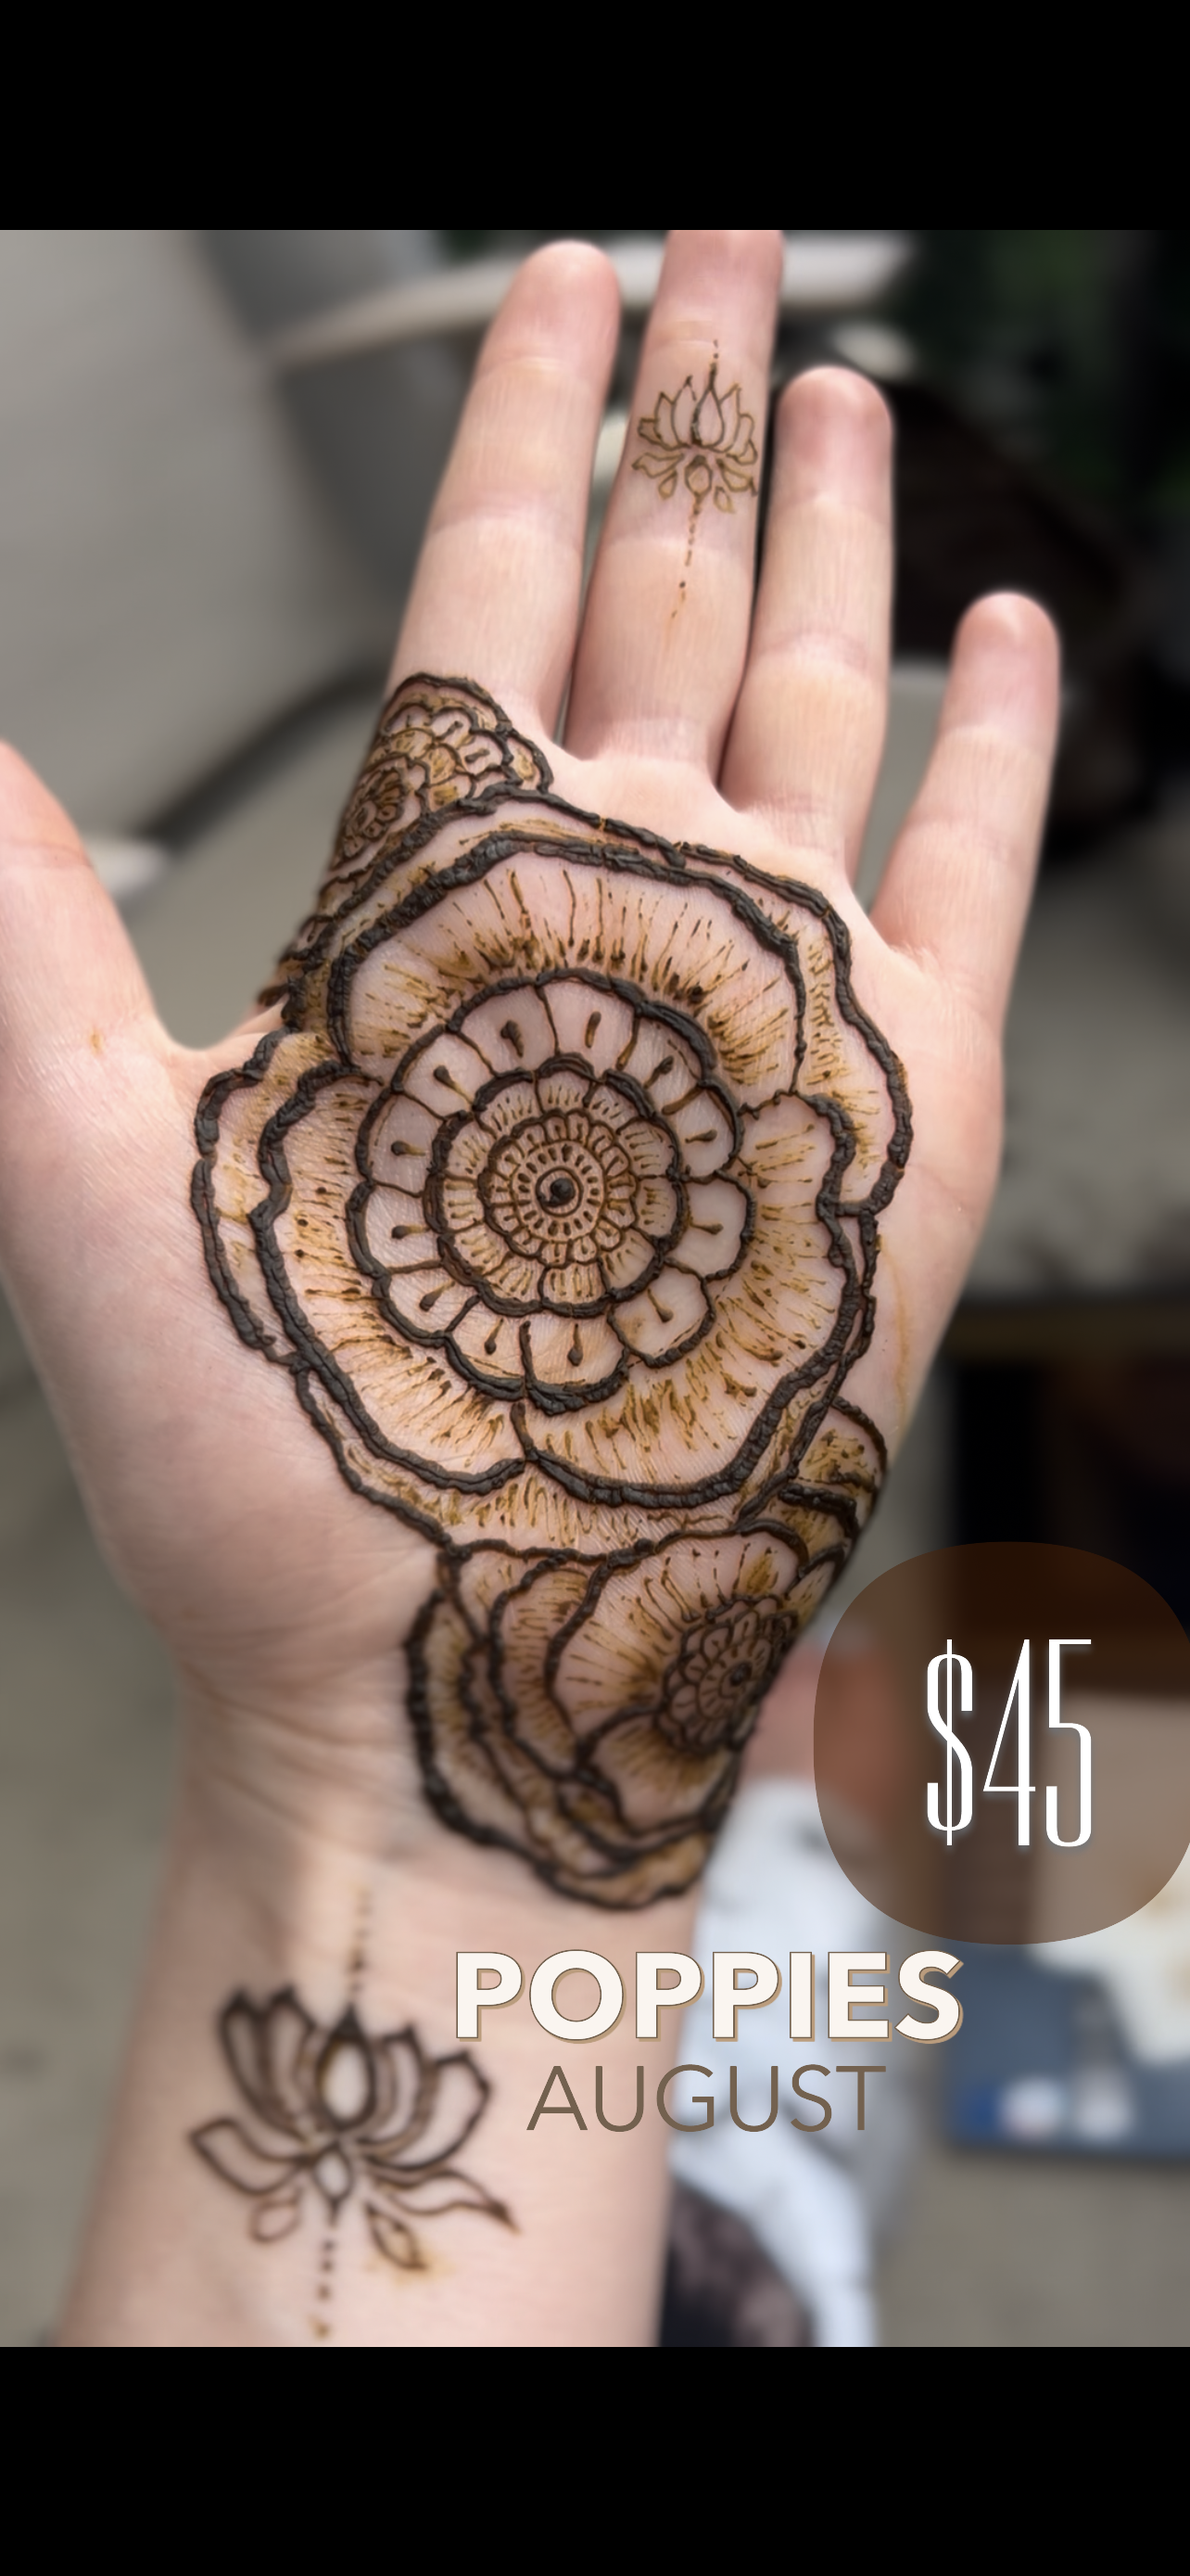
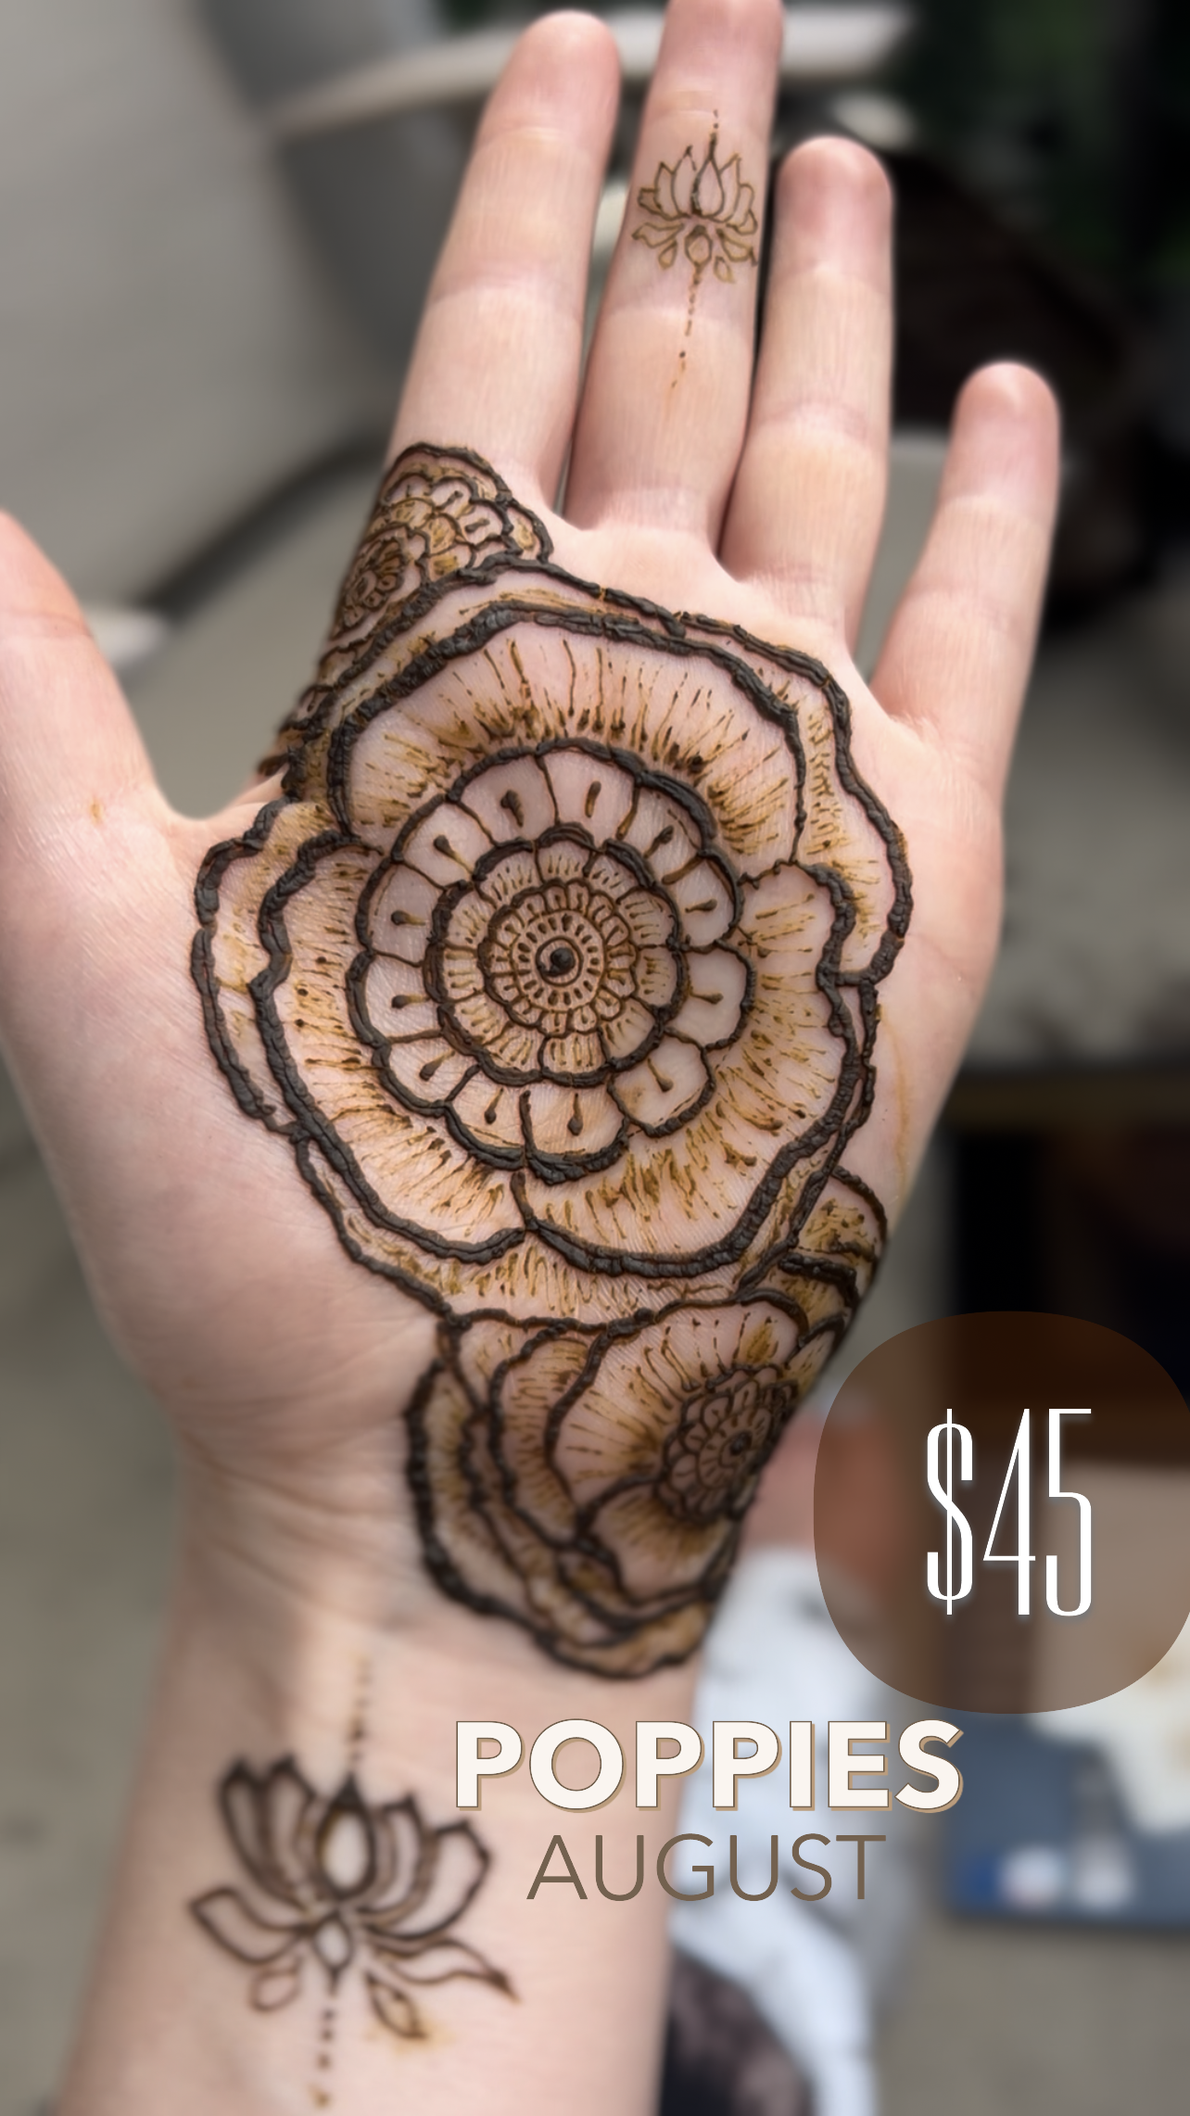
Added more thumbnail versions

diff --git a/index.md b/index.md
@@ -1,50 +1,50 @@
 <div class="masonry-grid">
   <a href="assets/images/poppy-august.png" data-lightbox="gallery">
-    <img src="assets/images/poppy-august.png" alt="poppy">
+    <img src="assets/images/poppy-august-sm.png" alt="poppy">
   </a>
   <a href="assets/images/water-lily-july.jpg" data-lightbox="gallery">
-    <img src="assets/images/water-lily-july.jpg" alt="water lilly">
+    <img src="assets/images/water-lily-july-sm.jpg" alt="water lilly">
   </a>
   <a href="assets/images/roses-june.jpg" data-lightbox="gallery">
-    <img src="assets/images/roses-june.jpg" alt="roses">
+    <img src="assets/images/roses-june-sm.jpg" alt="roses">
   </a>
   <a href="assets/images/palm-rose.jpg" data-lightbox="gallery">
-    <img src="assets/images/palm-rose.jpg" alt="palm-rose">
+    <img src="assets/images/palm-rose-sm.jpg" alt="palm-rose">
   </a>
   <a href="assets/images/hand-henna-roses.jpg" data-lightbox="gallery">
-    <img src="assets/images/hand-henna-roses.jpg" alt="roses">
+    <img src="assets/images/hand-henna-roses-sm.jpg" alt="roses">
   </a>
   <a href="assets/images/hawthorn-may.jpg" data-lightbox="gallery">
-    <img src="assets/images/hawthorn-may.jpg" alt="hawthorn">
+    <img src="assets/images/hawthorn-may-sm.jpg" alt="hawthorn">
   </a>
   <a href="assets/images/daffodils-march.jpg" data-lightbox="gallery">
-    <img src="assets/images/daffodils-march.jpg" alt="daffodils">
+    <img src="assets/images/daffodils-march-sm.jpg" alt="daffodils">
   </a>
   <a href="assets/images/palm-roses.jpg" data-lightbox="gallery">
-    <img src="assets/images/palm-roses.jpg" alt="palm roses">
+    <img src="assets/images/palm-roses-sm.jpg" alt="palm roses">
   </a>
   <a href="assets/images/sweet-pea-april.jpg" data-lightbox="gallery">
-    <img src="assets/images/sweet-pea-april.jpg" alt="sweet pea">
+    <img src="assets/images/sweet-pea-april-sm.jpg" alt="sweet pea">
   </a>
   <a href="assets/images/arm-basic.jpg" data-lightbox="gallery">
     <img src="assets/images/arm-basic-sm.jpg" alt="arm basic">
   </a>
    <a href="assets/images/classic-floral-arm-henna.jpg" data-lightbox="gallery">
-    <img src="assets/images/classic-floral-arm-henna.jpg" alt="classic floral arm">
+    <img src="assets/images/classic-floral-arm-henna-sm.jpg" alt="classic floral arm">
   </a>
    <a href="assets/images/hand-flowers-hengua.jpg" data-lightbox="gallery">
-    <img src="assets/images/hand-flowers-hengua.jpg" alt="hand flowers">
+    <img src="assets/images/hand-flowers-hengua-sm.jpg" alt="hand flowers">
   </a>
    <a href="assets/images/lotus-shoulder-henna.jpg" data-lightbox="gallery">
-    <img src="assets/images/lotus-shoulder-henna.jpg" alt="lotus shoulder">
+    <img src="assets/images/lotus-shoulder-henna-sm.jpg" alt="lotus shoulder">
   </a>
   <a href="assets/images/palm-hengua-flowers.jpg" data-lightbox="gallery">
-    <img src="assets/images/palm-hengua-flowers.jpg" alt="palm flowers">
+    <img src="assets/images/palm-hengua-flowers-sm.jpg" alt="palm flowers">
   </a>
   <a href="assets/images/thigh-flowers-large.jpg" data-lightbox="gallery">
-    <img src="assets/images/thigh-flowers-large.jpg" alt="thigh flowers">
+    <img src="assets/images/thigh-flowers-large-sm.jpg" alt="thigh flowers">
   </a>
   <a href="assets/images/jagua-lower-arm.jpg" data-lightbox="gallery">
-    <img src="assets/images/jagua-lower-arm.jpg" alt="lower arm">
+    <img src="assets/images/jagua-lower-arm-sm.jpg" alt="lower arm">
   </a>
 </div>
